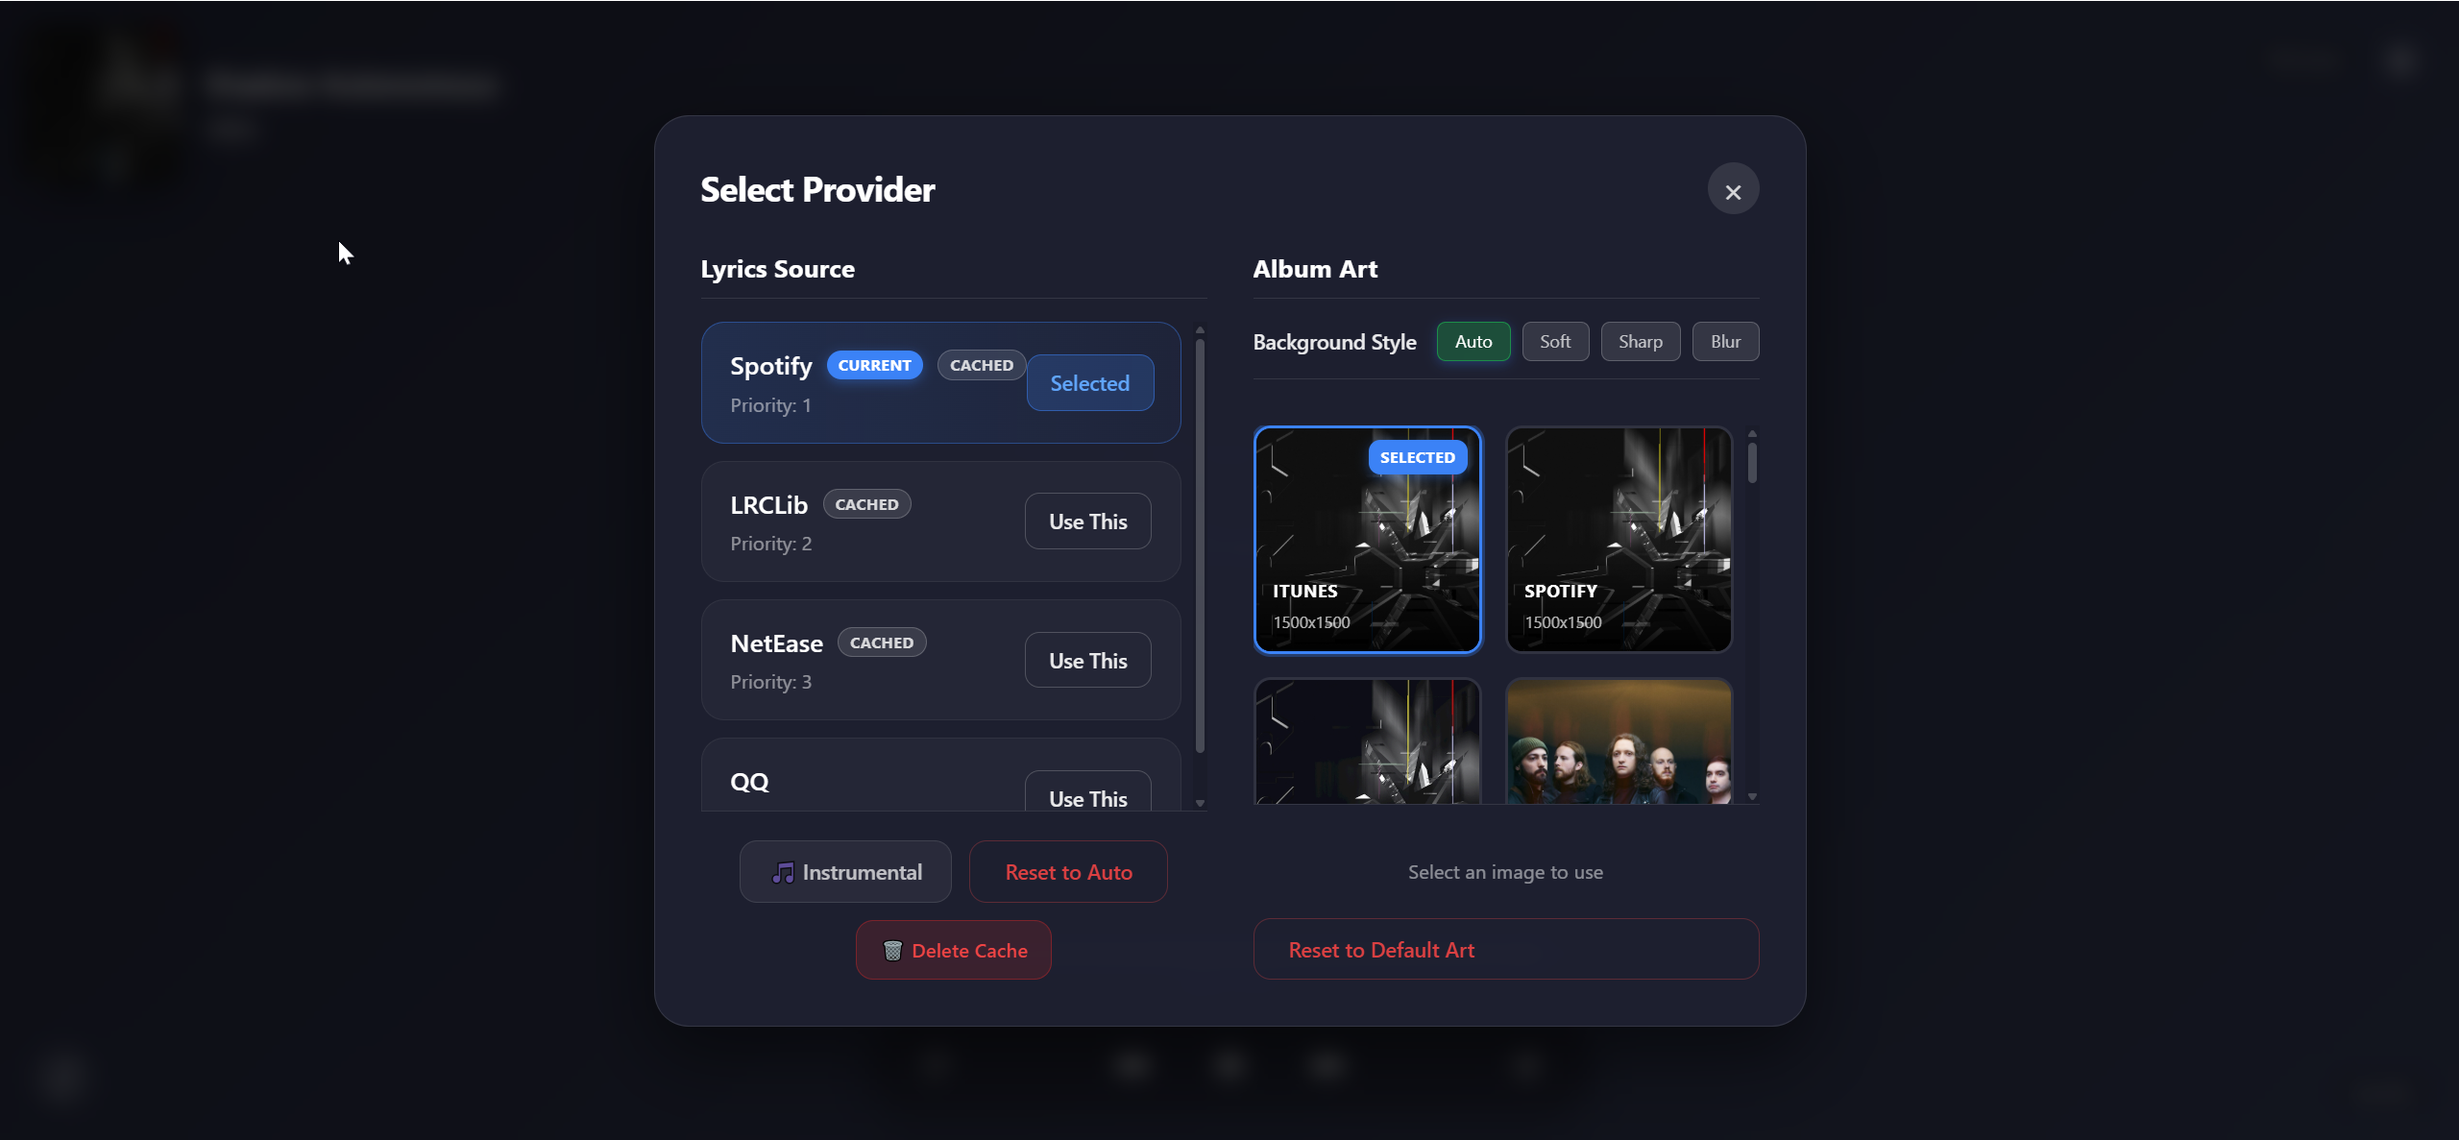
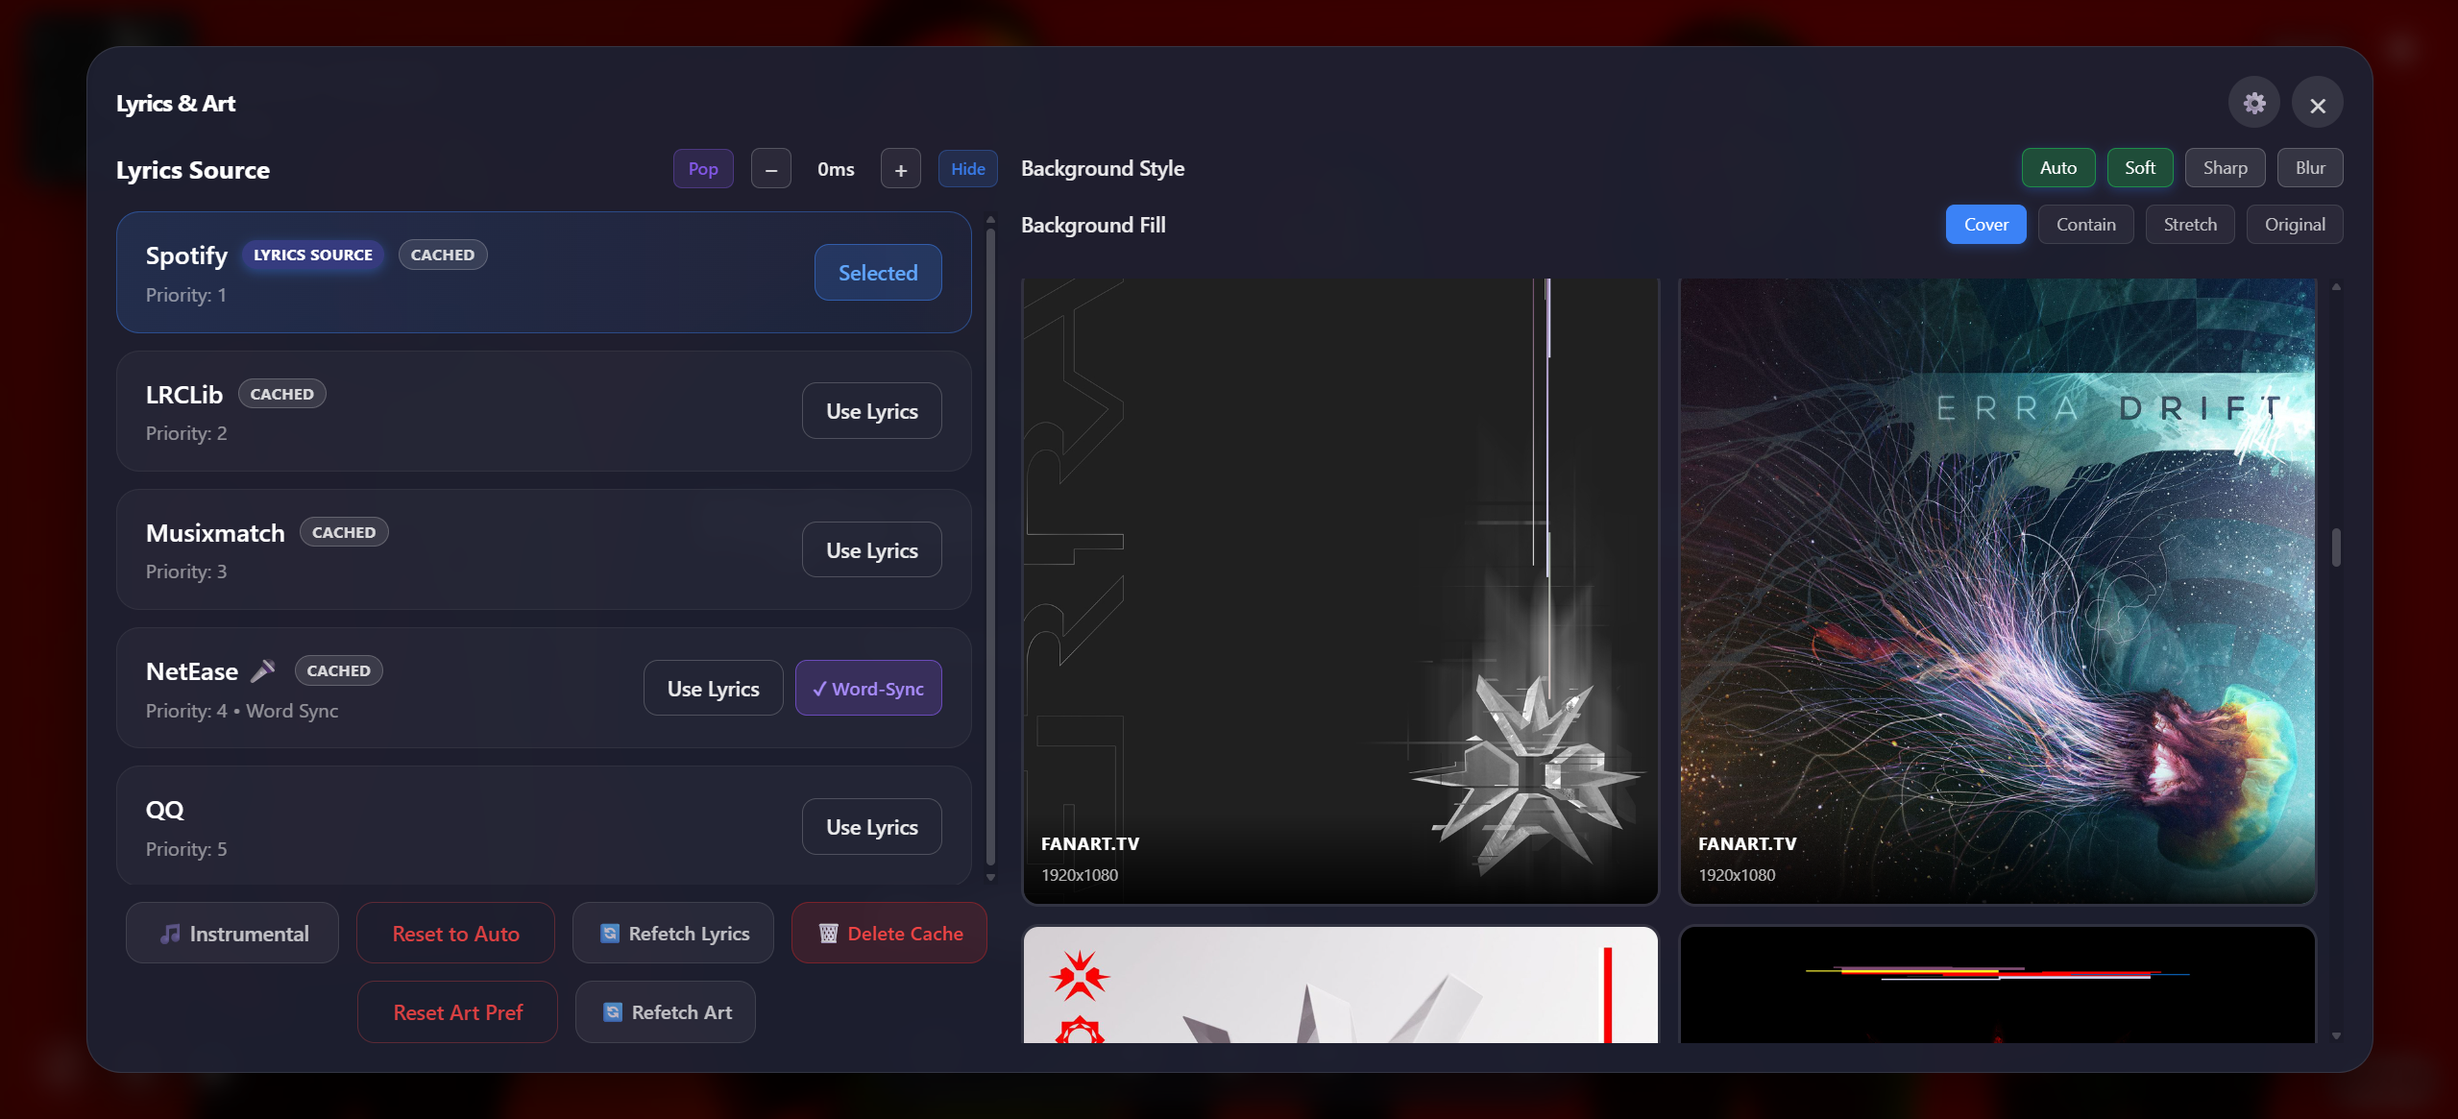
Updated documentation quite heavily.

diff --git a/README.md b/README.md
@@ -1,10 +1,14 @@
 # SyncLyrics
 
-A feature-rich lyrics server that displays synchronized lyrics for your currently playing music. Supports multiple platforms and audio sources, including Spotify, Windows Media, Linux, macOS, and audio recognition.
+A real-time synced lyrics server that can run on multiple platforms and serves beautiful lyrics to any device with a web-browser.
 
-This started as a hobby project where I just wanted real-time lyrics on any of my tablet devices, but has grown to become what I believe is one of the best lyrics apps out there (and will continue to grow in that direction). SyncLyrics aims to be a visual companion to the music experience, built for tablet dashboards.
+The app's philosophy is simple: configure it once and let it run in the background all the time. When you're not listening to music; it does nothing. When you are; it activates and shows you lyrics + album art + rich metadata.
 
-> **Note:** Forked for personal use. Primarily tested on Windows 10/11 with Spotify desktop client. Can be used with Home Assistant as an addon. Now supports Docker and multi-platform. 
+This started as a hobby project where I just wanted real-time lyrics on any of my tablet devices, but has grown to be a feature-rich self-hosted lyrics server. SyncLyrics is a visual companion to all music, anywhere. 
+
+**Supported Platforms:** Windows, Home Assistant, Docker, Linux, macOS (coming soon)
+
+**Supported Audio Sources:** Spotify, Windows Media (SMTC), Music Assistant, Audio Recognition (Shazam), Linux, macOS, and Spicetify. 
 
 ![Main UI](<screenshots/SyncLyrics Main UI.png>)
 
@@ -17,6 +21,8 @@ _Minimal Mode can be accessed by adding ?minimal=true to the URL_
 https://github.com/user-attachments/assets/ddb9fd10-f082-44c3-ab36-563fca2cc75e
 
 _Video demo showcasing the app's main features_
+
+[More Screenshots](<screenshots/>)
 
 ## ✨ Features
 
@@ -63,6 +69,15 @@ _Video demo showcasing the app's main features_
 - **Modular Settings:** See [Configuration Reference](docs/Configuration%20Reference.md)
 
 ---
+
+## Quick Start: 
+
+1) Install the app using your preferred method. 
+2) Visit `http://synclyrics.local:9012` or `http://localhost:9012` in your browser.
+3) Login to Spotify if needed (optional)
+4) Play music from a supported source and watch the lyrics on screen!
+
+**Tip:** Embed it as an iFrame in any existing dashboard or run it standalone inside Fully Kiosk Browser. Make sure the app is fullscreen for the best experience; and keep your device plugged-in as running it continuously can be a battery drain.
 
 ## 🚀 Installation
 
@@ -168,6 +183,18 @@ Docker images are available from:
 
 ---
 
+## UI UX Shortcuts
+
+The UI supports many gestures and shortcuts, such as: 
+
+1) **Long-press:** Several buttons can be long-pressed to access more features. For example: 
+a) Visual Mode Toggle: Holding this will lead to 'Art Mode', which hides all on-screen elements to focus on the album art. Combine with Slideshow to turn your device into an art slideshow using artist images. Long-press on a screen corner or press ESC to exit it. 
+b) Slideshow Icon: Holding this will show the Slideshow Menu, where you can configure all slideshow settings and exclude images you don't want. 
+
+2) **Three-finger tap** will play/pause the music. This is for touchsceen devices. 
+
+3) **Four-finger tap** will start/stop the slideshow.
+
 ## ⚙ Configuration
 
 The app works best with a Spotify API connection, which requires you to create a custom app in your Spotify Developer Dashboard. 
@@ -269,6 +296,8 @@ See [Troubleshooting Guide](docs/Troubleshooting.md) for detailed solutions.
 
 Found a bug? Have an idea? PRs are super welcome! 🙌 Just give it a quick test on Windows or HASS before submitting. Even small fixes help!
 
+The extensible plugin system makes it easy to add new metadata sources, so I welcome any requests and contributions.
+
 ---
 
 ## 📜 License
@@ -279,7 +308,7 @@ Found a bug? Have an idea? PRs are super welcome! 🙌 Just give it a quick test
 
 ## ⚠ Disclaimer (AI Usage)
 
-This project was built with AI assistance (spent over 300+ hours on it myself). It works great for my use case, but if you find rough edges, PRs and feedback are always welcome!
+This project was built with AI assistance (I spent over 300+ hours on it myself). It works great for my use case, but if you find rough edges, PRs and feedback are always welcome!
 
 ---
 

diff --git a/docs/Visual Modes and Slideshow.md b/docs/Visual Modes and Slideshow.md
@@ -8,22 +8,38 @@ Control how album art appears behind lyrics:
 
 | Style | Effect | Best For |
 |-------|--------|----------|
-| **Sharp** | Full-res art, slight dim | Album art appreciation |
+| **Sharp** | Full-res art | Album art appreciation |
 | **Soft** | Medium blur | Readability + aesthetics |
 | **Blur** | Heavy blur | Maximum readability |
-| **Auto** | Adapts to image | General use |
+| **Auto** | Soft by default, uses URL params | General use |
 
 ### Changing Background Style
+
+## URL Params: 
+
+You can use URL parameters to change the background style. But the easier way is to use the settings icon in the top right which shows you 'Display Options'. Simply select your preferred style and it will be applied to all tracks.
+
+The URL will auto-update, but you can copy it and save it for reuse. 
+
+## Album-wise Preferences
+
+It is possible to save the background style as an album-wise preference. This is useful if you have a favorite style for a specific album art. For example, a certain album can always be 'Sharp' or always be 'Blurry' if you so prefer.
+
 1. Click the **provider badge** (lyrics source) in the header
 2. Go to **Album Art & Images** tab
 3. Select your preferred style
 
+It will automatically be saved. The next time you listen to that album; the saved style will auto-apply. 
+
 ### Fill Modes
+
 Control how images fit the screen:
 - **Cover**: Fill screen, may crop edges
 - **Contain**: Full image visible, may have bars
 - **Stretch**: Distorts to fill (not recommended)
-- **Original**: Centered at native size
+- **Original**: Centered at native size (can be very zoomed in for 4K images)
+
+This preference is saved to the local storage on your device; it will not be synced to other devices. Hence you can use different settings for each device. For example, Cover on a tablet, and Contain on a mobile. 
 
 ---
 
@@ -32,14 +48,17 @@ Control how images fit the screen:
 Visual mode hides lyrics and shows the album art prominently. Useful during instrumentals or when you just want the visuals.
 
 ### Triggering Visual Mode
+
 - **Automatic**: Enters during instrumental sections (detected by ♪ markers)
 - **Manual**: Click the **visual mode button** (♩) in the bottom-left corner
 - **Long-press**: Hold the visual mode button (♩) to enter art-only mode
 
 ### Art-Only Mode
+
 A variant where only the album art is shown:
-- Long-press corners
-- Supports pinch-to-zoom on touch devices
+
+- Long-press corners to exit. 
+- Supports pinch-to-zoom on touch devices. You can pan and zoom images.
 
 ---
 
@@ -48,10 +67,12 @@ A variant where only the album art is shown:
 Cycles through artist images with subtle Ken Burns animation.
 
 ### Enabling Slideshow
+
 1. Click the **film slate icon** (next to word-sync toggle)
 2. Or long-press the slideshow icon to open the control center
 
 ### Slideshow Control Center
+
 Long-press the slideshow button to access:
 
 **Timing**: 3s, 6s, 9s, 15s, 30s, or custom intervals

diff --git a/docs/Spicetify Integration.md b/docs/Spicetify Integration.md
@@ -2,7 +2,11 @@
 
 Spicetify is a powerful customization tool for Spotify Desktop. SyncLyrics includes a custom bridge extension that provides significant improvements over standard Spotify API polling.
 
-> **Requirement**: Spicetify only works with the **Spotify Desktop Application** (Windows/Linux/macOS). It does not work with the Web Player or mobile apps.
+> **Requirement**: Spicetify only works with the **Spotify Desktop Application** with **Spicetify already installed and setup + the SyncLyrics Bridge extension installed** (Windows/Linux/macOS). It does not work with the Web Player or mobile apps. See Spicetify docs for more info. 
+
+> **Benefit:** The main benefit of Spicetify is that it enables access to the audio analysis data. As Spotify deprecated audio analysis API publicly, this remains the only way to reliably access that data (using internal endpoints). With that data, we can create an accurate waveform seekbar (similar to DAWs or MusicBee) and a spectrum visualizer. 
+
+Position accuracy also improves, which is beneficial for karaoke/word-sync which requires accurate position data.
 
 ## What Spicetify Enables
 
@@ -42,7 +46,7 @@ Spicetify is a powerful customization tool for Spotify Desktop. SyncLyrics inclu
 4. **Restart Spotify** if it was running.
 
 ### Verify Installation
-Open Spotify Desktop and check the console (Ctrl+Shift+I → Console). You should see:
+Open Spotify Desktop and check the DevTools console (Ctrl+Shift+I → Console). You should see:
 ```
 [SyncLyrics] Connected to ws://127.0.0.1:9012/ws/spicetify
 ```
@@ -55,8 +59,20 @@ Edit the `CONFIG.WS_URLS` array in `synclyrics-bridge.js`:
 ```javascript
 WS_URLS: [
     'ws://127.0.0.1:9012/ws/spicetify',      // Local
-    'ws://192.168.1.99:9012/ws/spicetify',   // HASS/Tablet
+    'ws://192.168.1.100:9012/ws/spicetify',   // HASS/Tablet
 ],
+```
+
+Note: The Spotify desktop app does not allow insecure Websocket connections over the LAN. It only allows localhost. 
+
+To allow this, please modify your Spotify shortcut with these flags: 
+
+`--unsafely-treat-insecure-origin-as-secure=ws://192.168.1.100:9012` - This will bypass the security warning and allow the connection to be established. Make sure to change the IP to match your real LAN IP.
+
+For example
+
+```
+C:\Users\[User Name]\AppData\Roaming\Spotify\Spotify.exe --disable-renderer-backgrounding --disable-background-timer-throttling --unsafely-treat-insecure-origin-as-secure=ws://192.168.1.100:9012
 ```
 
 ## Features Provided

diff --git a/docs/Audio Recognition.md b/docs/Audio Recognition.md
@@ -6,7 +6,7 @@ SyncLyrics includes Shazam-like audio recognition for identifying songs when sta
 
 Audio recognition is useful when:
 - Playing music through a DAW (like Reaper)
-- Using a media player without SMTC support
+- Using a media player without native metadata support
 - Playing audio from external devices
 - Identifying songs from TV/speakers
 
@@ -16,11 +16,11 @@ Audio recognition is useful when:
 Captures audio directly from your system using a loopback device.
 
 **Requirements**:
-- Loopback audio device (e.g., VB-Cable, WASAPI loopback)
+- Microphone OR Loopback audio device (e.g., VB-Cable, WASAPI loopback)
 - Works on HTTP (no HTTPS required)
 
 **Setup**:
-1. Install a virtual audio cable or loopback driver
+1. Install a virtual audio cable or loopback driver or use your microphone
 2. Configure your audio to route through the loopback
 3. Select the loopback device in SyncLyrics
 
@@ -79,15 +79,19 @@ If Shazam fails to identify a song, SyncLyrics can fall back to ACRCloud (option
 
 ACRCloud is only called when Shazam returns no match. Results bypass verification (high confidence).
 
+ACRCloud is only enabled if you provide the correct ENV variables; it will not be enabled otherwise. Please reach out if you face any issues. 
+
 ## Reaper DAW Integration
 
-SyncLyrics auto-detects when Reaper is running and can automatically start recognition.
+SyncLyrics can auto-detect when Reaper is running and can automatically start recognition.
 
 **How it works**:
 1. Enable "Reaper Auto-Detect" in settings
 2. When Reaper is detected, audio recognition starts automatically
 3. Recognition uses your configured loopback device
 4. Songs are matched and enriched with Spotify metadata
+
+Similar to Reaper; other apps can be added to auto-detect if required. Please reach out for any help or requests regarding this. 
 
 ## Spotify Enrichment
 
@@ -102,9 +106,11 @@ This gives you full SyncLyrics features even for non-Spotify playback.
 
 ### No match found
 - Ensure audio is actually playing and audible
-- Increase capture duration (5-10s works best)
+- Increase capture duration (6-10s works best)
 - Lower silence threshold if audio is quiet
 - Try backend mode if frontend mic has poor quality
+
+Shazam does not have all songs in its library, so certain niche songs are not picked up by it. If this is a requirement for you, I recommend trying ACRCloud.
 
 ### Wrong song matched
 - This can happen with covers or remixes

diff --git a/docs/Word Sync and Karaoke.md b/docs/Word Sync and Karaoke.md
@@ -41,6 +41,8 @@ This offset is saved per-song and persists across sessions.
 
 If you need to adjust the global latency, please do so in the main app settings.
 
+**Update:** The latency controls are shown directly on the main UI next to the provider badge, when word-sync is ON. So you can simply control it from there. If you wish to hide these, click the provider badge and click 'Hide' next to the latency controls.
+
 ### Keyboard Shortcuts
 - **[** and **]**: Adjust timing by 50ms (when available)
 
@@ -69,6 +71,10 @@ Use the timing adjustment (see above) to offset by ±50ms increments.
 
 If the word-sync timing is _really_ off; it's mostly like bad data from the provider (this is quite common as word-sync data is hard to synchronize). Try switching providers or using line-sync instead. You can also try deleting the cache and re-fetching fresh lyrics.
 
-### Animation is choppy
-- With Spicetify: Should be smooth (~100ms updates)
-- Without Spicetify: Limited to ~4s polling, animation interpolates between updates
+## Animation Styles
+
+The default animation style is 'Pop'. You can adjust this by going to the Provider menu (bottom-right icon) and clicking on 'Pop' to cycle it. The available styles are: 
+
+**Pop**: Words scale up when active
+**Fade**: Gradient sweep across words as they're sung
+**Pop-Fade**: Hybrid animation where both Pop and Fade occur simultaneously.

diff --git a/docs/FAQ.md b/docs/FAQ.md
@@ -14,6 +14,8 @@ Not directly. However, you can use **Audio Recognition** to identify songs from 
 
 However any music playing on your Windows device can be recognized via the SMTC integration.
 
+I can consider adding native support for these sources based on requests. 
+
 **Apple Music**: Use Audio Recognition to identify songs playing through your speakers.
 
 **YouTube Music (browser)**: Windows Media detection works, but has limitations:
@@ -42,7 +44,7 @@ Spicetify requires the Spotify Desktop app but provides much better sync.
 
 ### Why are lyrics missing for some songs?
 - The song may be instrumental (marked with ♪)
-- None of the 5 providers have lyrics for it
+- None of the 5 providers have synced lyrics for it
 - Try clicking the provider badge to manually select a source
 
 ### Why are lyrics out of sync?
@@ -58,6 +60,8 @@ Partially. Cached lyrics and album art work offline, but:
 - Spotify API requires internet
 - Audio recognition requires internet
 - New songs need provider access
+
+Full offline support may work once the lyrics/art have been cached and if you use an offline music source. This is untested but I plan to add support for full offline usage. 
 
 ### Can I use this on a tablet dashboard?
 Yes! Common setups:

diff --git a/docs/Quick Start.md b/docs/Quick Start.md
@@ -4,6 +4,8 @@ Get SyncLyrics running in 5 minutes.
 
 ## 1. Install
 
+Follow installation instructions from main README to get up and running quickly. 
+
 **Windows**: Download from [Releases](../../releases), extract, run `SyncLyrics.exe`
 
 **Docker** (choose one):
@@ -17,7 +19,7 @@ docker run -d -p 9012:9012 -v synclyrics_data:/data ghcr.io/anshulj999/synclyric
 
 **Home Assistant**: Add `https://github.com/AnshulJ999/homeassistant-addons` as a repository
 
-## 2. Get Spotify Credentials
+## 2. Get Spotify Credentials (optional)
 
 1. Go to [Spotify Developer Dashboard](https://developer.spotify.com/dashboard)
 2. Create a new app

diff --git a/docs/Adding Metadata Sources.md b/docs/Adding Metadata Sources.md
@@ -207,7 +207,7 @@ Just return an `album_art_url` and enrichment handles the rest!
    loop = asyncio.get_running_loop()
    result = await loop.run_in_executor(None, blocking_function)
    ```
-
+Ensure all source-specific operations are non-blocking and don't interfere with the main loop.
 2. **Handle errors gracefully** - Return `None`, don't raise:
    ```python
    async def get_metadata(self):

diff --git a/docs/Features Overview.md b/docs/Features Overview.md
@@ -34,7 +34,7 @@ Four background modes for album art:
 - **Sharp**: Full-res album art behind lyrics
 - **Soft**: Medium blur for readability
 - **Blur**: Heavy blur (classic style)
-- **Auto**: Automatically selects based on image
+- **Auto**: Automatically selects based on URL params
 
 See [Visual Modes and Slideshow](Visual%20Modes%20and%20Slideshow.md) for details.
 

diff --git a/docs/Docker Reference.md b/docs/Docker Reference.md
@@ -32,6 +32,8 @@ docker run -d \
   ghcr.io/anshulj999/synclyrics:latest
 ```
 
+Please do check .env.example and docker-compose for full list of supported ENV variables. 
+
 ### Using Docker Compose
 
 1. Download the [docker-compose.yml](../docker/docker-compose.yml) file

diff --git a/docs/Configuration Reference.md b/docs/Configuration Reference.md
@@ -17,6 +17,8 @@ Settings are loaded in this priority order (highest wins):
 
 ---
 
+Below list may be outdated. Use the built-in settings menu for updated reference. 
+
 ## Server
 
 | Setting | Default | Description |
